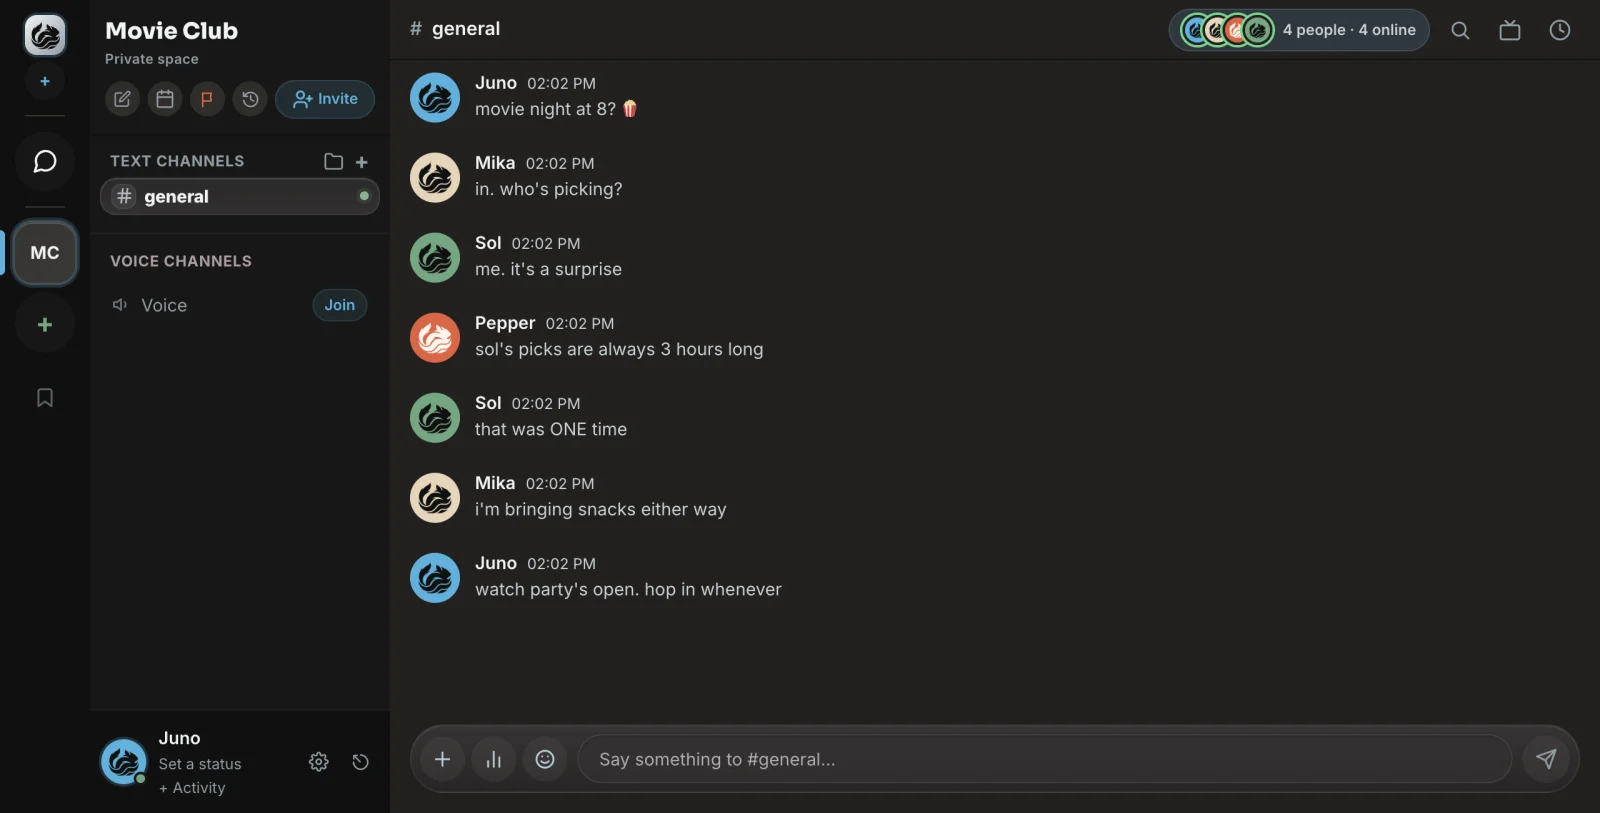
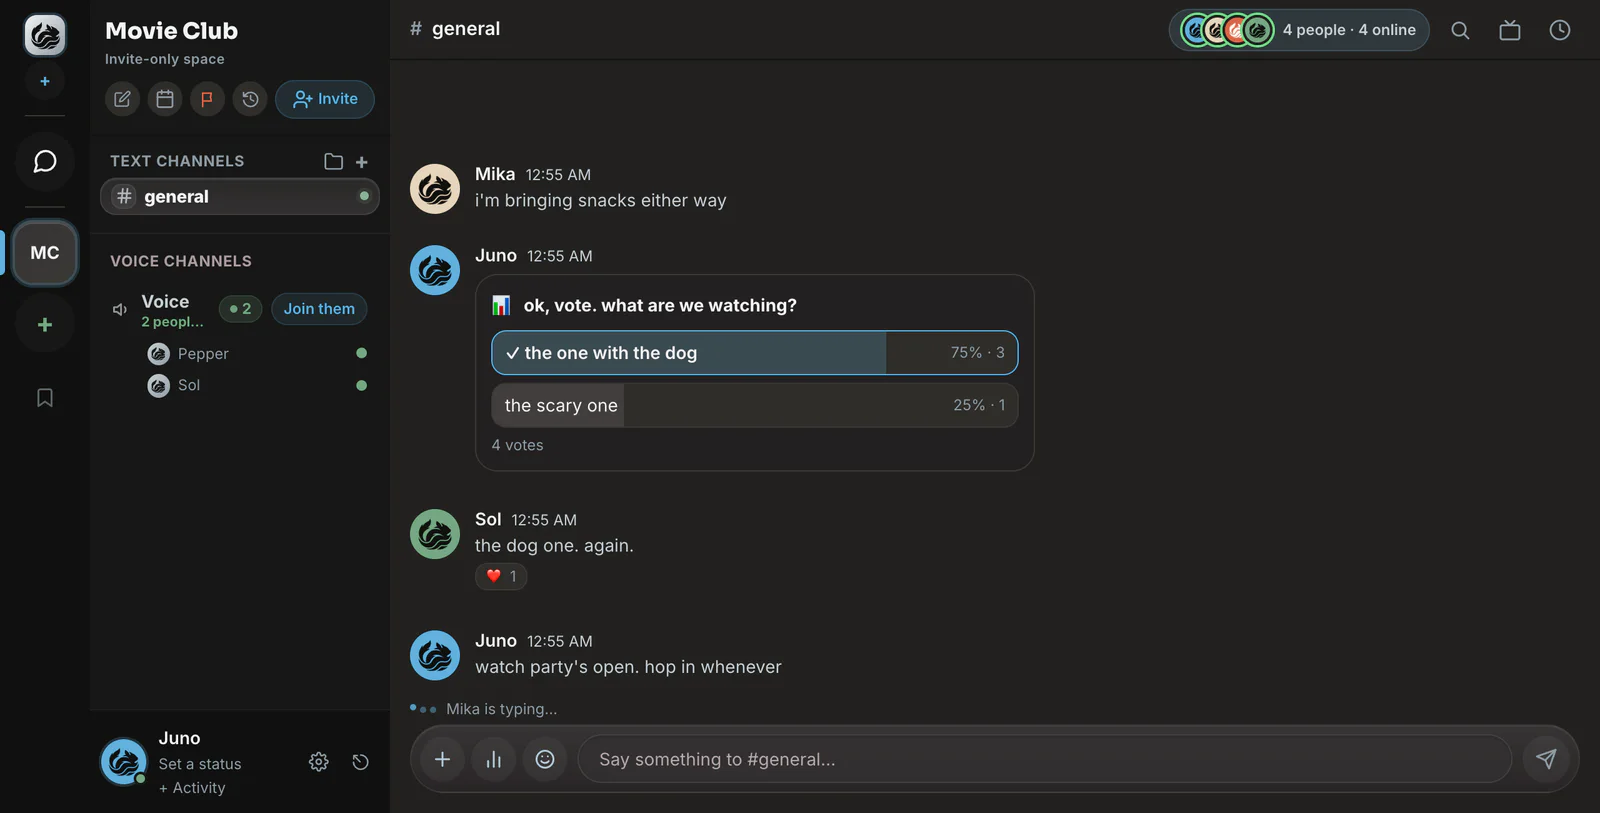
fix(site): the app preview on the home page
The two screenshots under the first screen were nearly empty dark rectangles (seven short
messages and a void), the phone was a bordered box laid over the window's channel list,
and the window was tilted, which blurred its text.

- New screenshots from a local demo room with made-up people: a poll with votes,
  reactions, someone typing, two friends in the voice room. The phone shot shows the
  app as a phone now shows it.
- The window sits straight with a proper address pill; the phone has a clock strip and
  a camera island and stands at the window's bottom right corner, over the empty side
  of the chat.
- On phones the phone is larger and upright.

diff --git a/site/site.css b/site/site.css
@@ -158,8 +158,14 @@ a:hover { text-decoration-color: currentColor; }
 
 /* ── The app, right under the first screen ───────────────────────────────── */
 /* Tucked up towards the meadow's edge, so the app is the next thing you see. */
-.peek { position: relative; width: min(100%, 62rem); margin: calc(var(--space-section) * -0.4) auto clamp(3rem, 7vw, 6rem); padding-bottom: 4%; }
-.peek .window { transform: rotate(0.6deg); }
+/* The window sits straight (a tilt blurs its text) and the phone stands at its bottom
+   right corner, over the empty side of the chat instead of over the channel list. */
+.peek { position: relative; isolation: isolate; width: min(100%, 66rem); margin: calc(var(--space-section) * -0.4) auto clamp(3rem, 7vw, 6rem); padding: 0 6.5% 7% 0; }
+/* A soft pool of shade under the two devices, so they rest on the page. */
+.peek::before { content: ""; position: absolute; inset: 14% 3% -3% 3%; z-index: -1; border-radius: 50%; background: radial-gradient(closest-side, rgb(31 92 58 / 26%), transparent); filter: blur(26px); }
+.peek .window { border-radius: 18px; border-color: rgb(22 36 29 / 18%); box-shadow: 0 2px 4px rgb(22 36 29 / 8%), 0 42px 80px -32px rgb(22 36 29 / 50%); }
+.peek .window__bar { position: relative; padding: 11px 14px; background: linear-gradient(#f8f4eb, #efeadf); }
+.peek .window__bar span { position: absolute; left: 50%; min-width: 36%; margin: 0; padding: 5px 14px; border-radius: 999px; background: rgb(22 36 29 / 7%); text-align: center; transform: translateX(-50%); }
 .cta { display: flex; flex-wrap: wrap; gap: 0.9rem 0.9rem; padding-bottom: var(--edge); }
 .window { margin: 0; border: 1px solid rgb(22 36 29 / 14%); border-radius: 16px; background: var(--app); box-shadow: var(--shadow-l); overflow: hidden; }
 .window__bar { display: flex; align-items: center; gap: 7px; padding: 10px 14px; background: #f3efe6; border-bottom: 1px solid var(--hair); }
@@ -168,13 +174,19 @@ a:hover { text-decoration-color: currentColor; }
 .window__bar i:nth-child(3) { background: #9cc9a2; }
 .window__bar span { margin-left: 0.6rem; font: 600 0.75rem/1 var(--font-body); color: var(--muted); }
 .window img { display: block; width: 100%; height: auto; }
-.phone { position: absolute; left: -3.5%; bottom: 0; width: 22%; margin: 0; border: 5px solid #1b1a19; border-radius: clamp(16px, 2.2vw, 26px); background: var(--app); box-shadow: var(--shadow-l); overflow: hidden; transform: rotate(-5deg); }
+.phone { position: absolute; right: 0; bottom: 0; width: 20.5%; margin: 0; border: clamp(5px, 0.62vw, 8px) solid #0d0d0c; border-radius: clamp(20px, 2.9vw, 38px); background: #0d0d0c; box-shadow: inset 0 0 0 1px rgb(255 255 255 / 12%), 0 2px 4px rgb(22 36 29 / 10%), 0 34px 60px -22px rgb(22 36 29 / 64%); overflow: hidden; }
+/* The strip a phone keeps for itself: clock, camera island, battery. */
+.phone__bar { position: relative; display: flex; align-items: center; justify-content: space-between; padding: 7.5% 10% 3.5%; background: #1e1c1d; color: #f3f1ea; font: 700 clamp(7px, 0.8vw, 11px)/1 var(--font-body); }
+.phone__bar i { position: absolute; left: 50%; top: 56%; width: 29%; height: 44%; border-radius: 999px; background: #000; transform: translate(-50%, -50%); }
+.phone__bar b { width: 20%; height: 0.7em; border-radius: 3px; background: linear-gradient(90deg, #f3f1ea 64%, rgb(243 241 234 / 32%) 64%); }
 .phone img { display: block; width: 100%; height: auto; }
 /* On a phone, show the phone. The desktop window is unreadable at that size. */
 @media (max-width: 560px) {
-  .peek { padding-bottom: 0; }
+  .peek { padding: 0; }
+  .peek::before { inset: 8% -4% -3%; }
   .peek .window { display: none; }
-  .phone { position: relative; left: auto; bottom: auto; width: min(66%, 15.5rem); margin-inline: auto; transform: rotate(-2deg); }
+  .phone { position: relative; right: auto; bottom: auto; width: min(74%, 17.5rem); margin-inline: auto; border-width: 7px; border-radius: 36px; }
+  .phone__bar { font-size: 10px; }
 }
 
 .band { position: relative; isolation: isolate; padding-block: var(--space-section); }

diff --git a/site/index.html b/site/index.html
@@ -20,7 +20,7 @@
 <link rel="icon" href="kikka.svg" />
 <link rel="preload" href="assets/fonts/sora-latin-var.woff2" as="font" type="font/woff2" crossorigin />
 <link rel="preload" href="assets/fonts/inter-latin-var.woff2" as="font" type="font/woff2" crossorigin />
-<link rel="stylesheet" href="site.css?v=228bd8cb1b" />
+<link rel="stylesheet" href="site.css?v=5bc24c3878" />
 <script>document.documentElement.classList.add("js");</script>
 <script type="application/ld+json">
 {"@context":"https://schema.org","@type":"SoftwareApplication","name":"Ohiyo","url":"https://ohiyo.gg","applicationCategory":"CommunicationApplication","operatingSystem":"Web","offers":{"@type":"Offer","price":"0","priceCurrency":"USD"},"license":"https://www.gnu.org/licenses/agpl-3.0.html","codeRepository":"https://github.com/New1Direction/ohiyo"}
@@ -68,10 +68,11 @@
     <div class="peek reveal">
       <figure class="window">
         <div class="window__bar" aria-hidden="true"><i></i><i></i><i></i><span>app.ohiyo.gg</span></div>
-        <img src="assets/shots/chat-1600.webp" loading="lazy" srcset="assets/shots/chat-800.webp 800w, assets/shots/chat-1600.webp 1600w" sizes="(max-width: 900px) 92vw, 62rem" width="1600" height="813" alt="Ohiyo open in a browser. Four friends in a space called Movie Club are planning a movie night in the general channel." fetchpriority="high" />
+        <img src="assets/shots/chat-1600.webp" loading="lazy" srcset="assets/shots/chat-800.webp 800w, assets/shots/chat-1600.webp 1600w" sizes="(max-width: 900px) 92vw, 62rem" width="1600" height="813" alt="Ohiyo open in a browser. Four friends in a space called Movie Club are voting on tonight's movie in the general channel, and two of them are already in the voice room." fetchpriority="high" />
       </figure>
       <figure class="phone">
-        <img src="assets/shots/phone-780.webp" loading="lazy" width="780" height="1560" alt="The same chat on a phone." />
+        <div class="phone__bar" aria-hidden="true"><span>9:41</span><i></i><b></b></div>
+        <img src="assets/shots/phone-780.webp" loading="lazy" width="780" height="1560" alt="The same chat on a phone, with the poll and everyone's votes." />
       </figure>
     </div>
     <div class="head reveal">

diff --git a/site/privacy.html b/site/privacy.html
@@ -9,7 +9,7 @@
 <link rel="icon" href="kikka.svg" />
 <link rel="preload" href="assets/fonts/sora-latin-var.woff2" as="font" type="font/woff2" crossorigin />
 <link rel="preload" href="assets/fonts/inter-latin-var.woff2" as="font" type="font/woff2" crossorigin />
-<link rel="stylesheet" href="site.css?v=228bd8cb1b" />
+<link rel="stylesheet" href="site.css?v=5bc24c3878" />
 </head>
 <body>
 <a class="skip-link" href="#main">Skip to content</a>

diff --git a/site/status.html b/site/status.html
@@ -9,7 +9,7 @@
 <link rel="icon" href="kikka.svg" />
 <link rel="preload" href="assets/fonts/sora-latin-var.woff2" as="font" type="font/woff2" crossorigin />
 <link rel="preload" href="assets/fonts/inter-latin-var.woff2" as="font" type="font/woff2" crossorigin />
-<link rel="stylesheet" href="site.css?v=228bd8cb1b" />
+<link rel="stylesheet" href="site.css?v=5bc24c3878" />
 </head>
 <body>
 <a class="skip-link" href="#main">Skip to content</a>

diff --git a/site/terms.html b/site/terms.html
@@ -9,7 +9,7 @@
 <link rel="icon" href="kikka.svg" />
 <link rel="preload" href="assets/fonts/sora-latin-var.woff2" as="font" type="font/woff2" crossorigin />
 <link rel="preload" href="assets/fonts/inter-latin-var.woff2" as="font" type="font/woff2" crossorigin />
-<link rel="stylesheet" href="site.css?v=228bd8cb1b" />
+<link rel="stylesheet" href="site.css?v=5bc24c3878" />
 </head>
 <body>
 <a class="skip-link" href="#main">Skip to content</a>

diff --git a/site/threat-model.html b/site/threat-model.html
@@ -9,7 +9,7 @@
 <link rel="icon" href="kikka.svg" />
 <link rel="preload" href="assets/fonts/sora-latin-var.woff2" as="font" type="font/woff2" crossorigin />
 <link rel="preload" href="assets/fonts/inter-latin-var.woff2" as="font" type="font/woff2" crossorigin />
-<link rel="stylesheet" href="site.css?v=228bd8cb1b" />
+<link rel="stylesheet" href="site.css?v=5bc24c3878" />
 </head>
 <body>
 <a class="skip-link" href="#main">Skip to content</a>

diff --git a/site/og.html b/site/og.html
@@ -5,7 +5,7 @@
 <meta charset="utf-8" />
 <meta name="robots" content="noindex" />
 <title>Ohiyo social card</title>
-<link rel="stylesheet" href="site.css?v=228bd8cb1b" />
+<link rel="stylesheet" href="site.css?v=5bc24c3878" />
 <style>
   body { width: 1200px; height: 630px; overflow: hidden; }
   /* The same painting as the first screen of the site: the words on the sky, the stone mark and Kikka on the right. */
